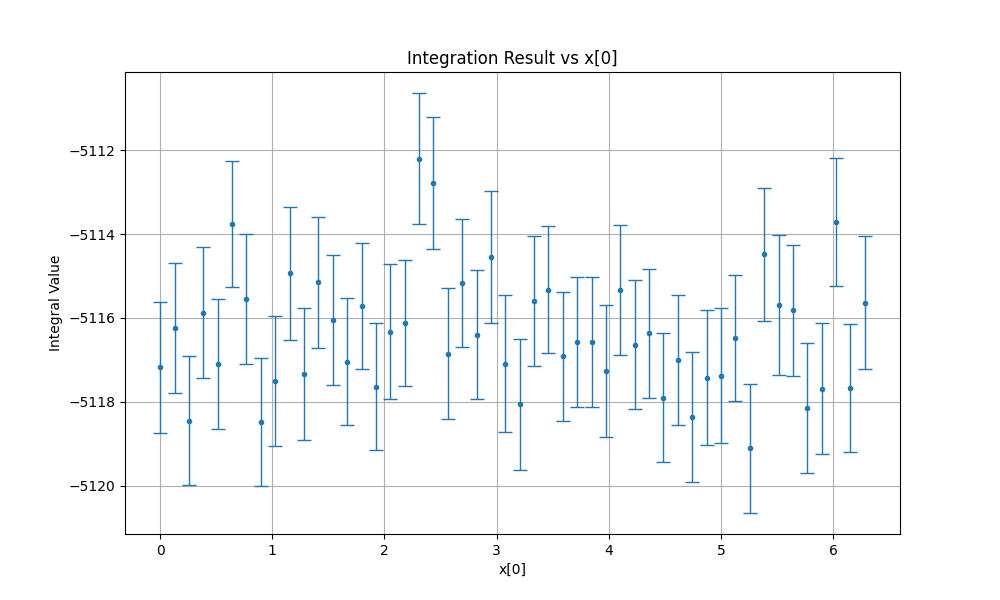
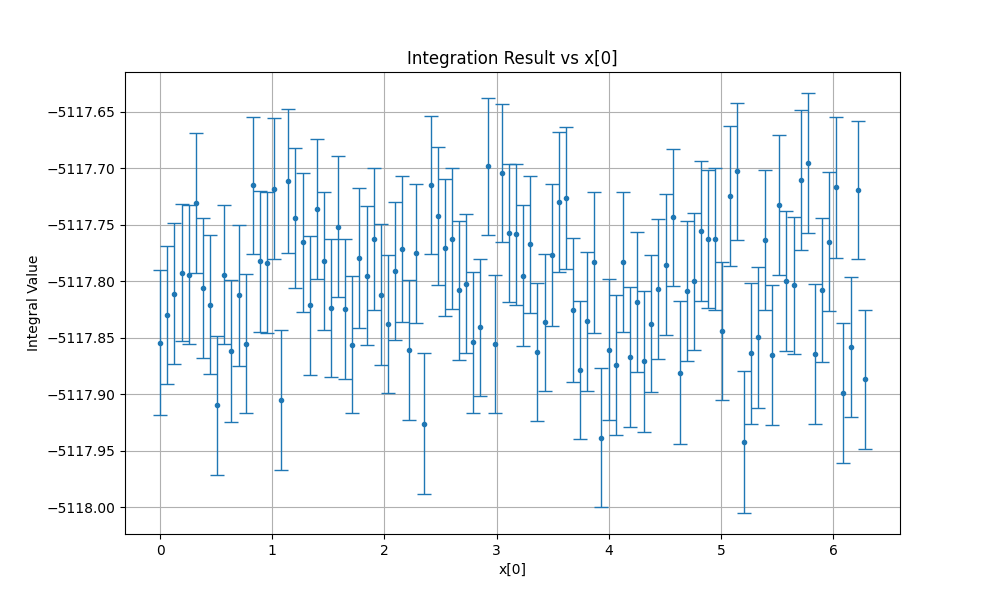
修改参数，在服务器上跑虚部投影,110*100*100*2e7

diff --git a/retest_full_1.py b/retest_full_1.py
@@ -24,7 +24,7 @@ if sys.argv[1:]:
 else:
     SHOW_GRID = True
 
-r = 1
+r = 1e8
 eulerGamma = 0.5772156649
 part = 'imag'
 
@@ -60,7 +60,7 @@ def FF2binv(x2, t5, t5b, t6, t6b, x0, x3, x4):
 def f(x):
     x0, x1, x2, x3, x4, x5, x6, x7 = x
     
-    result = 1024*np.pi**6 * np.cos(0*x0)*((1-x1**2)*(-8*x2*(x1+x2)**2*(1+x1*x2)**2*(-1+2*x3)*(1+x1**2+x1*(-2+\
+    result = 1024*np.pi**6 * np.cos(1*x0)*((1-x1**2)*(-8*x2*(x1+x2)**2*(1+x1*x2)**2*(-1+2*x3)*(1+x1**2+x1*(-2+\
 4*x3))*(-2+x5)*x5-4*x2*(x1+x2)**2*(1+x1*x2)**2*(-1+2*x3)*(1+x1**2+x1*(\
 -2+4*x3))*(-2+x5)*x5*(-2+x6)+4*(x2**2*(-1+2*x3)+x1**6*x2**2*(-1+2*x3)+\
 x1**2*(-2+4*x3+11*x2**2*(-1+2*x3)+x2**4*(-2+4*x3)+8*x2*(1-3*x3+3*\
@@ -118,10 +118,10 @@ def integrate_for_x0(x0_val):
         return f_fixed_x0(x, x0_val)
     
     # 训练积分器
-    integ(integrand, nitn=10, neval=1e6)
+    integ(integrand, nitn=10, neval=1e7)
     
     # 进行最终积分
-    result = integ(integrand, nitn=40, neval=2e7)
+    result = integ(integrand, nitn=50, neval=1e8)
     
     return result.mean, result.sdev
 
@@ -135,10 +135,10 @@ def plot_x0_distribution():
     from multiprocessing import Pool, cpu_count
     
     # 生成x0的值
-    x0_values = np.linspace(0, 2*np.pi, 50)
+    x0_values = np.linspace(0, 2*np.pi, 100)
     
     # 创建进程池
-    n_cores = cpu_count() - 1  # 留一个核心给系统
+    n_cores = 100  # 留一个核心给系统
     print(f"使用 {n_cores} 个CPU核心进行并行计算")
     
     # 使用进程池并行计算
@@ -155,9 +155,9 @@ def plot_x0_distribution():
             integral_values = [r[0] for r in results]
             error_bars = [r[1] for r in results]
             np.savez('integral_vs_x0_'+part+'_r-'+str(format(r, '.1e'))+'.npz', 
-                     x0_values=x0_values[:i+1], 
-                     integral_values=integral_values,
-                     error_bars=error_bars)
+                    x0_values=x0_values[:i+1], 
+                    integral_values=integral_values,
+                    error_bars=error_bars)
     
     # 分离结果
     integral_values, error_bars = zip(*results)
@@ -173,43 +173,199 @@ def plot_x0_distribution():
     plt.savefig('integral_vs_x0_'+part+'_r-'+str(format(r, '.1e'))+'.png')
     plt.show()
 
-def main():
-    # seed the random number generator so results reproducible
-    gv.ranseed((1, 2, 33))
+def main(seed=None):
+    # 如果提供了种子，则使用它
+    if seed is not None:
+        gv.ranseed(seed)
+    else:
+        # 否则使用默认种子
+        gv.ranseed((1, 2, 33))
 
     start_time = time.time()  # 记录开始时间
     
     # 创建积分器并设置详细输出
+    # 使用较少的核心，因为我们会在外层并行
     integ = vegas.Integrator(
         [[0., 2*np.pi], [0., 1.], [0., 1.], [0., 1.],[0., 1.], [0., 1.], [0., 1.], [0., 1.]], 
-        nproc=13,
-        analyzer=vegas.reporter()
+        nproc=1,  # 使用单核，因为我们在外层并行
     )
+    
+    # 适应性迭代阶段 - 减少迭代次数，因为我们会有多次独立运行
+    print(f"\n=== 开始适应性迭代阶段 (seed={seed}) ===")
+    training_result = integ(f, nitn=10, neval=1e6)
 
-    # 适应性迭代阶段
-    print("\n=== 开始适应性迭代阶段 ===")
-    training_result = integ(f, nitn=10, neval=1e7, analyzer=vegas.reporter())
-
-    # 最终积分阶段
-    print("\n=== 开始最终积分阶段 ===")
-    result = integ(f, nitn=40, neval=5e7, analyzer=vegas.reporter())
+    # 最终积分阶段 - 减少迭代次数，因为我们会有多次独立运行
+    print(f"\n=== 开始最终积分阶段 (seed={seed}) ===")
+    result = integ(f, nitn=100, neval=2e7)
     
     end_time = time.time()  # 记录结束时间
     total_time = end_time - start_time  # 计算总时间
     
+    # 输出当前进程的结果
+    print(f"\n=== 种子 {seed} 的计算结果 ===")
+    print(result.summary())
+    print(f'积分结果 = {result}')
+    print(f'计算时间 = {total_time:.2f}秒')
+    
+    # 返回结果以便进行合并
+    return result.mean, result.sdev, total_time
+
+def run_parallel_integration(n_cores):
+    """
+    并行运行多个积分实例，然后合并结果
+    
+    使用权重平均法合并多个独立积分结果：
+    - 权重正比于各自方差的倒数
+    - 最终误差是独立积分误差的合理组合
+    """
+    from multiprocessing import Pool
+    import numpy as np
+    
+    overall_start = time.time()
+    
+    print(f"=== 启动并行积分，使用 {n_cores} 个核心 ===")
+    
+    # 创建不同的随机种子
+    seeds = [(i, i+100, i+200) for i in range(1, n_cores+1)]
+    
+    # 创建进程池并运行
+    with Pool(n_cores) as pool:
+        # 启动所有进程
+        results = pool.map(main, seeds)
+    
+    # 解包结果
+    means, sdevs, times = zip(*results)
+    
+    # 使用方差的倒数作为权重来计算加权平均值
+    weights = np.array([1.0/(sdev**2) for sdev in sdevs])
+    weights = weights / np.sum(weights)  # 归一化权重
+    
+    # 计算加权平均值
+    final_mean = np.sum(np.array(means) * weights)
+    
+    # 计算合并后的误差（正确处理独立测量的误差）
+    # 对于独立测量，合并后的方差是各个方差倒数之和的倒数
+    final_variance = 1.0 / np.sum([1.0/(s**2) for s in sdevs])
+    final_sdev = np.sqrt(final_variance)
+    
+    # 计算总时间
+    total_time = time.time() - overall_start
+    max_time = max(times)
+    
+    # 输出结果
+    print("\n=== 并行积分结果 ===")
+    print(f"总核心数: {n_cores}")
+    print(f"积分结果: {final_mean} ± {final_sdev}")
+    print(f"相对误差: {100 * final_sdev / abs(final_mean):.2f}%")
+    print(f"总运行时间: {total_time:.2f}秒")
+    print(f"最长单次运行时间: {max_time:.2f}秒")
+    print(f"加速比: {max_time/total_time:.2f}x (理想情况下)")
+    
+    # 保存单次结果到文件
+    np.savez(f'parallel_result_{part}_r-{format(r, ".1e")}_cores-{n_cores}.npz',
+             mean=final_mean,
+             sdev=final_sdev,
+             weights=weights,
+             individual_means=means,
+             individual_sdevs=sdevs,
+             individual_times=times,
+             total_time=total_time,
+             n_cores=n_cores)
+    
+    return final_mean, final_sdev, total_time
+
+def run_multiple_integrations(n_cores, n_iterations):
+    """
+    运行多次并行积分并整合所有结果
+    
+    参数:
+    n_cores: 每次积分使用的核心数
+    n_iterations: 运行并行积分的次数
+    """
+    import numpy as np
+    
+    overall_start = time.time()
+    
+    print(f"=== 开始运行 {n_iterations} 次并行积分 ===")
+    
+    all_means = []
+    all_sdevs = []
+    all_times = []
+    
+    # 运行n_iterations次并行积分
+    for i in range(1, n_iterations+1):
+        print(f"\n=== 进行第 {i}/{n_iterations} 次并行积分 ===")
+        mean, sdev, run_time = run_parallel_integration(n_cores)
+        all_means.append(mean)
+        all_sdevs.append(sdev)
+        all_times.append(run_time)
+    
+    # 使用方差的倒数作为权重来计算加权平均值
+    weights = np.array([1.0/(sdev**2) for sdev in all_sdevs])
+    weights = weights / np.sum(weights)  # 归一化权重
+    
+    # 计算加权平均值
+    final_mean = np.sum(np.array(all_means) * weights)
+    
+    # 计算合并后的误差
+    final_variance = 1.0 / np.sum([1.0/(s**2) for s in all_sdevs])
+    final_sdev = np.sqrt(final_variance)
+    
+    # 计算总时间
+    total_time = time.time() - overall_start
+    
+    # 计算Q值 (chi^2/dof)
+    chi2 = np.sum([(m - final_mean)**2 / s**2 for m, s in zip(all_means, all_sdevs)])
+    dof = len(all_means) - 1  # 自由度
+    Q = chi2 / dof if dof > 0 else 0
+    
     # 输出最终结果
     print("\n=== 最终结果 ===")
-    print(result.summary())
-    print('积分结果 = %s' % result)
-    print('Q值 = %.2f' % result.Q)
-    print('相对误差 = %.2f%%' % (100 * result.sdev / abs(result.mean)))
-    print('总计算时间 = %.2f秒' % total_time)  # 使用我们自己计算的时间
+    print(f"总运行次数: {n_iterations}")
+    print(f"每次运行核心数: {n_cores}")
+    print(f"积分结果 = {final_mean} ± {final_sdev}")
+    print(f"Q值 = {Q:.2f}")
+    print(f"相对误差 = {100 * final_sdev / abs(final_mean):.2f}%")
+    print(f"总计算时间 = {total_time:.2f}秒")
     
-    if SHOW_GRID:
-        integ.map.show_grid(20)
+    # 保存结果到文件
+    np.savez(f'final_result_{part}_r-{format(r, ".1e")}_cores-{n_cores}_iters-{n_iterations}.npz',
+             mean=final_mean,
+             sdev=final_sdev,
+             Q=Q,
+             individual_means=all_means,
+             individual_sdevs=all_sdevs,
+             individual_times=all_times,
+             total_time=total_time,
+             n_cores=n_cores,
+             n_iterations=n_iterations)
+    
+    return final_mean, final_sdev, Q, total_time
+
+def main2():    
+    # 使用多次并行积分
+    result, error, Q, total_time = run_multiple_integrations(n_cores=110, n_iterations=100)
+    
+    # 输出最终结果
+    print("\n=== 最终结果 ===")
+    print(f'积分结果 = {result} ± {error}')
+    print(f'Q值 = {Q:.2f}')
+    print(f'相对误差 = {100 * error / abs(result):.2f}%')
+    print(f'总计算时间 = {total_time:.2f}秒')  # 使用我们自己计算的时间
+    
+    # 保存结果到文件
+    np.savez('final_result_'+part+'_r-'+str(format(r, '.1e'))+'.npz',
+             mean=result,
+             sdev=error,
+             Q=Q,
+             total_time=total_time)
+#    if SHOW_GRID:
+#        main.integ.map.show_grid(20)
+
 
 if __name__ == '__main__':
-    plot_x0_distribution()
+    main2()
+
 
 
 # Copyright (c) 2013-22 G. Peter Lepage.
